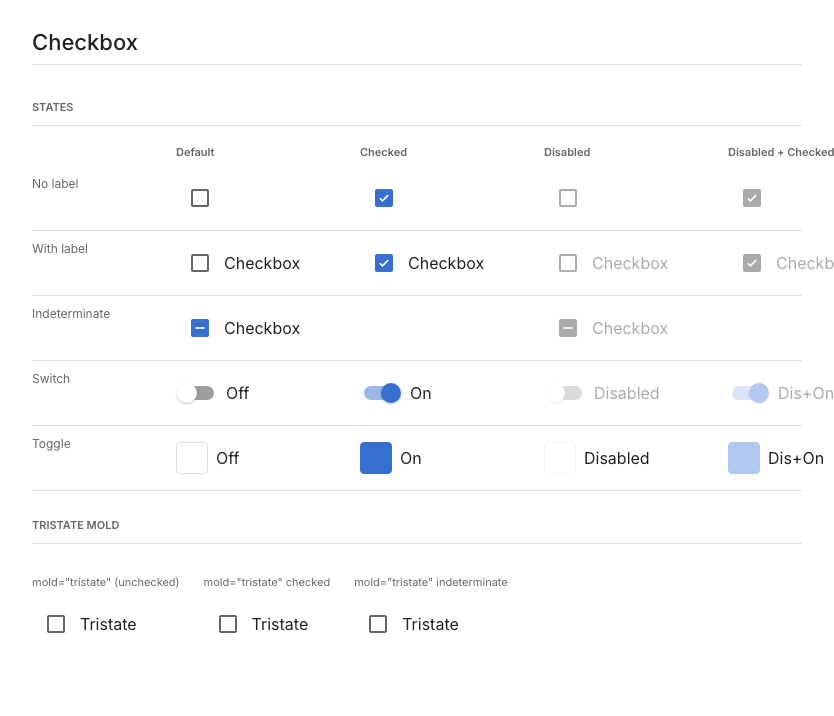
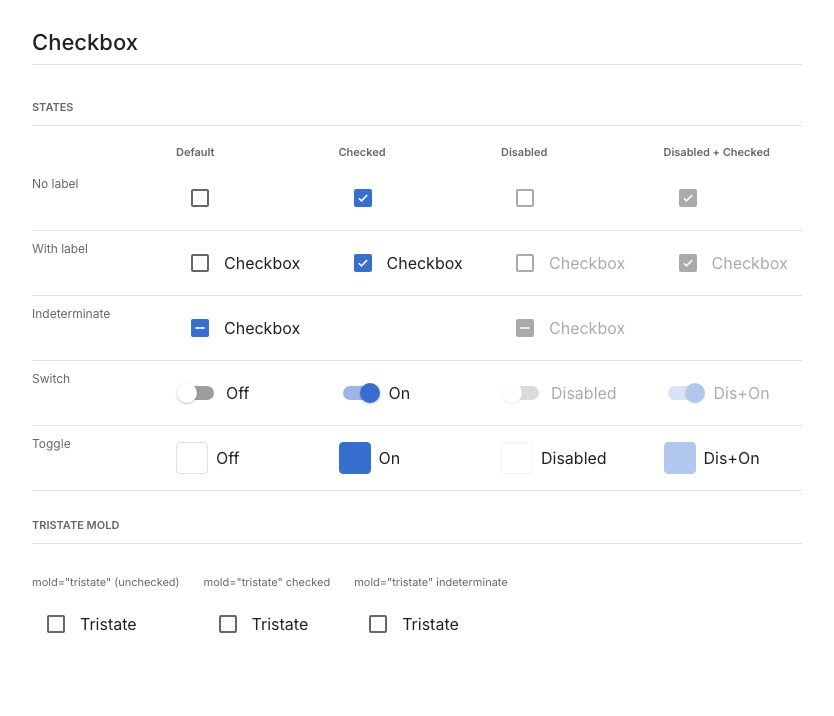
preview: responsive State Matrix on mobile + z-grid-fill utility
Preview pages overflowed horizontally on mobile (fixed-width pv-cols-*
state-matrix grids ~1072px), so mobile browsers scaled the page down and
spawned a phantom vertical scrollbar. Fluid minmax() columns removed the
overflow but squeezed phone cards to ~34px (overlapping the 44px dropdown
button). Below sm (600px) the matrix now reflows into self-labeled cards.

- pv.css: minmax() fluid columns + <600px @media card reflow (hide shared
  header, ::before state labels from CSS vars, auto-fit minmax(150px,1fr))
- pv/matrix.zul: inject column labels as --pv-col-N CSS vars on the wrapper
  (zscript) so the 18 content templates need no changes; var inheritance
  auto-scopes per matrix instance
- _layout.css: add .z-grid-fill auto-fit responsive grid utility for apps /
  independent card grids; deliberately not Bootstrap Grid
- tablet.spec.ts: tablet-no-horizontal-overflow + tablet-matrix-card-usable
  failing-first regression guards
- screenshot.spec.ts: viewport-fill guard injects its own wide spacer instead
  of relying on the (now-responsive) preview pages
- regenerate tablet-combobox / tablet-checkbox visual baselines
- doc/responsive-design.md + CLAUDE.md index row

diff --git a/src/test/resources/web/pv.css b/src/test/resources/web/pv.css
@@ -56,29 +56,41 @@
     align-items: start;
 }
 
+/* Column tracks use minmax(0, …) so the gallery shrinks to fit a narrow
+   (phone/tablet) viewport instead of overflowing horizontally. On a wide
+   desktop the tracks reach their max and render exactly as before; on a narrow
+   viewport they shrink proportionally, keeping document width <= viewport width
+   (a horizontal overflow would otherwise scale the whole mobile page down and
+   spawn a phantom vertical scrollbar). The `min-width: 0` below lets the cell
+   contents (width:100% inputs) follow the shrinking tracks. */
 .pv-cols-1 > .pv-col-header-row,
-.pv-cols-1 > .pv-row { grid-template-columns: 120px 200px; }
+.pv-cols-1 > .pv-row { grid-template-columns: minmax(0, 120px) minmax(0, 200px); }
 
 .pv-cols-2 > .pv-col-header-row,
-.pv-cols-2 > .pv-row { grid-template-columns: 120px repeat(2, 160px); }
+.pv-cols-2 > .pv-row { grid-template-columns: minmax(0, 120px) repeat(2, minmax(0, 160px)); }
 
 .pv-cols-2-wide > .pv-col-header-row,
-.pv-cols-2-wide > .pv-row { grid-template-columns: 150px repeat(2, 220px); }
+.pv-cols-2-wide > .pv-row { grid-template-columns: minmax(0, 150px) repeat(2, minmax(0, 220px)); }
 
 .pv-cols-2-xl > .pv-col-header-row,
-.pv-cols-2-xl > .pv-row { grid-template-columns: 120px repeat(2, 260px); }
+.pv-cols-2-xl > .pv-row { grid-template-columns: minmax(0, 120px) repeat(2, minmax(0, 260px)); }
 
 .pv-cols-3 > .pv-col-header-row,
-.pv-cols-3 > .pv-row { grid-template-columns: 120px repeat(3, 160px); }
+.pv-cols-3 > .pv-row { grid-template-columns: minmax(0, 120px) repeat(3, minmax(0, 160px)); }
 
 .pv-cols-4 > .pv-col-header-row,
-.pv-cols-4 > .pv-row { grid-template-columns: 120px repeat(4, 160px); }
+.pv-cols-4 > .pv-row { grid-template-columns: minmax(0, 120px) repeat(4, minmax(0, 160px)); }
 
 .pv-cols-4-wide > .pv-col-header-row,
-.pv-cols-4-wide > .pv-row { grid-template-columns: 150px repeat(4, 220px); }
+.pv-cols-4-wide > .pv-row { grid-template-columns: minmax(0, 150px) repeat(4, minmax(0, 220px)); }
 
 .pv-cols-5 > .pv-col-header-row,
-.pv-cols-5 > .pv-row { grid-template-columns: 120px repeat(5, 160px); }
+.pv-cols-5 > .pv-row { grid-template-columns: minmax(0, 120px) repeat(5, minmax(0, 160px)); }
+
+/* Allow cells to shrink below their content's intrinsic width so the fluid
+   tracks above can actually contract on narrow viewports. */
+.pv-col-header-row > *,
+.pv-row > * { min-width: 0; }
 
 /* Make inline-flex ZK components (bandbox, combobox, datebox, …) fill their grid cell */
 .pv-row > div > .z-bandbox,
@@ -94,3 +106,48 @@
 .pv-row > div > .z-decimalbox,
 .pv-row > div > .z-searchbox,
 .pv-row > div > .z-selectbox { width: 100%; }
+
+/* -------------------------------------------------------
+   Phone (< sm 600px) — reflow the State Matrix into self-labeled cards.
+   The fluid table above keeps the document within the viewport, but at phone
+   widths the 5/6 columns squeeze each cell to ~34px (narrower than a 44px
+   dropdown button → overlap). A 2D aligned table can't keep its shared header
+   aligned once columns reflow, so the header is hidden and each cell self-labels
+   from the --pv-col-N custom properties matrix.zul sets on .pv-matrix. Cards
+   then auto-fit at a usable >=150px width and wrap.
+   ------------------------------------------------------- */
+@media (max-width: 599px) {
+    .pv-matrix .pv-col-header-row { display: none; }
+
+    .pv-matrix .pv-row {
+        grid-template-columns: repeat(auto-fit, minmax(min(150px, 100%), 1fr));
+        gap: 16px;
+    }
+
+    /* The row's variant label (first cell) becomes a full-width group heading. */
+    .pv-matrix .pv-row > div:first-child {
+        grid-column: 1 / -1;
+        font-weight: 600;
+        color: var(--zk-color-on-surface);
+        margin-bottom: 0;
+    }
+
+    /* Each state cell becomes a self-labeled card: the column (state) name from
+       the matching --pv-col-N custom property is captioned above the widget. */
+    .pv-matrix .pv-row > div:not(:first-child)::before {
+        content: "";
+        display: block;
+        font-size: 11px;
+        font-weight: 600;
+        color: var(--zk-color-outline);
+        text-transform: uppercase;
+        letter-spacing: 0.08em;
+        margin-bottom: 6px;
+    }
+    .pv-matrix .pv-row > div:nth-child(2)::before { content: var(--pv-col-1); }
+    .pv-matrix .pv-row > div:nth-child(3)::before { content: var(--pv-col-2); }
+    .pv-matrix .pv-row > div:nth-child(4)::before { content: var(--pv-col-3); }
+    .pv-matrix .pv-row > div:nth-child(5)::before { content: var(--pv-col-4); }
+    .pv-matrix .pv-row > div:nth-child(6)::before { content: var(--pv-col-5); }
+    .pv-matrix .pv-row > div:nth-child(7)::before { content: var(--pv-col-6); }
+}

diff --git a/src/test/playwright/tablet.spec.ts b/src/test/playwright/tablet.spec.ts
@@ -65,6 +65,65 @@ test.describe('tablet-touch-size', () => {
 });
 
 // -------------------------------------------------------
+// No horizontal overflow — the fixed-width `pv-cols-*` state-gallery grids
+// (matrix.zul) were ~1072px wide, exceeding a phone/tablet viewport. When
+// document content is wider than the viewport the mobile engine widens the
+// layout viewport and scales the whole page down; that same scale makes the
+// layout viewport TALLER than the visible area, producing a phantom *vertical*
+// scrollbar even though no element sticks out. Asserting no horizontal overflow
+// guards the responsive `pv.css` fix (fluid minmax() columns) that keeps the
+// galleries within the viewport width.
+// -------------------------------------------------------
+const overflowPages = [
+  '/combobox.zul',
+  '/datebox.zul',
+  '/timebox.zul',
+  '/spinner.zul',
+  '/textbox.zul',
+];
+
+test.describe('tablet-no-horizontal-overflow', () => {
+  for (const url of overflowPages) {
+    test(`${url} content fits the viewport width`, async ({ page }) => {
+      await page.goto(url);
+      await page.waitForLoadState('networkidle');
+      const { scrollW, clientW } = await page.evaluate(() => {
+        const de = document.scrollingElement || document.documentElement;
+        return { scrollW: de.scrollWidth, clientW: de.clientWidth };
+      });
+      // 1px tolerance for sub-pixel rounding.
+      expect(scrollW, `${url}: document is ${scrollW - clientW}px wider than the viewport`)
+        .toBeLessThanOrEqual(clientW + 1);
+    });
+  }
+});
+
+// -------------------------------------------------------
+// State-matrix cards must stay usable on a phone — not squeezed.
+// The fluid table (minmax columns) keeps the document within the viewport, but
+// at phone widths it shrinks each combobox cell to ~34px — narrower than the
+// 44px dropdown button, so cells overlap and the preview is useless. Below the
+// `sm` breakpoint the matrix must REFLOW into self-labeled cards that stay a
+// usable width. Guards the responsive `pv.css` card layout (matrix.zul exposes
+// the column labels as --pv-col-N custom properties for the ::before captions).
+// -------------------------------------------------------
+test.describe('tablet-matrix-card-usable', () => {
+  test('state cards keep a usable width on a phone', async ({ page }) => {
+    await page.goto('/combobox.zul');
+    await page.waitForLoadState('networkidle');
+    await page.setViewportSize({ width: 390, height: 800 });
+    await page.waitForTimeout(300);
+    const minCardW = await page.evaluate(() => {
+      // every state cell (skip the first-child variant label of each row)
+      const cells = [...document.querySelectorAll('.pv-matrix .pv-row > div:not(:first-child)')];
+      return Math.min(...cells.map(c => Math.round(c.getBoundingClientRect().width)));
+    });
+    // A combobox needs room for the 44px button plus a readable input.
+    expect(minCardW, `narrowest state card is ${minCardW}px`).toBeGreaterThanOrEqual(150);
+  });
+});
+
+// -------------------------------------------------------
 // Visual baselines at tablet size — capture the page wrapper (.z-p-8)
 // -------------------------------------------------------
 type VisualCase = { name: string; url: string };

diff --git a/src/test/playwright/screenshot.spec.ts b/src/test/playwright/screenshot.spec.ts
@@ -362,8 +362,10 @@ test.describe('tablet-isolation', () => {
 // The base reset must use `body { min-height: 100% }`, NOT `100vh`. `100vh` is
 // blind to scrollbars: when any wide content triggers a horizontal scrollbar,
 // a `100vh` body exceeds the now-shorter visible area and spawns a SPURIOUS
-// vertical scrollbar on a page whose content fits. The colorbox preview matrix
-// is fixed-width (~504px min), so a narrow viewport is a reliable trigger.
+// vertical scrollbar on a page whose content fits. We force the horizontal
+// scrollbar with an injected off-document-flow wide spacer (the preview pages
+// are now responsive and no longer overflow), so this guards the reset rule
+// itself rather than any page's layout.
 // See `.claude/skills/zk-component-rules/reference/viewport-height-fill.md`.
 // -------------------------------------------------------
 test.describe('viewport-fill', () => {
@@ -372,6 +374,12 @@ test.describe('viewport-fill', () => {
     await page.goto('/colorbox.zul');
     await page.waitForLoadState('networkidle');
     const m = await page.evaluate(() => {
+      // Force a horizontal scrollbar without adding vertical content height:
+      // an absolutely-positioned 1px-tall spacer wider than the viewport.
+      const spacer = document.createElement('div');
+      spacer.style.cssText = 'position:absolute;top:0;left:0;width:2000px;height:1px;pointer-events:none;';
+      document.body.appendChild(spacer);
+
       const d = document.documentElement;
       const pageEl = document.querySelector('.z-page') as HTMLElement;
       return {

diff --git a/src/main/resources/web/zul/css/utility/_layout.css b/src/main/resources/web/zul/css/utility/_layout.css
@@ -26,6 +26,17 @@
 .z-grid-cols-6 { grid-template-columns: repeat(6, minmax(0, 1fr)); }
 .z-grid-cols-auto-1fr { grid-template-columns: auto 1fr; }
 
+/* Auto-fit fill — responsive by intrinsic sizing, no breakpoints needed.
+   Children flow into as many equal columns as fit, each at least
+   `--zk-grid-min` wide (default 180px), wrapping to new rows when they don't.
+   Set `display: grid` (.z-d-grid) and a gap, then override the minimum
+   per-instance with `style="--zk-grid-min: 220px"` when a wider card is wanted.
+   Prefer this over fixed `.z-grid-cols-N` whenever the cards are independent
+   (no cross-row column alignment required). */
+.z-grid-fill {
+    grid-template-columns: repeat(auto-fit, minmax(min(var(--zk-grid-min, 180px), 100%), 1fr));
+}
+
 /* ============================================
    Flex — direction & wrap
    ============================================ */

diff --git a/doc/responsive-design.md b/doc/responsive-design.md
@@ -1,0 +1,182 @@
+# Responsive Design 解法（Marble）
+
+本文件說明 Marble 目前的響應式版面做法、設計取捨，以及如何使用。
+
+## 0. TL;DR
+
+| 層次 | 是什麼 | 用在哪 | 現況 |
+|------|--------|--------|------|
+| **通用 utility** | `.z-grid-fill`（auto-fit grid，無 breakpoint） | App／預覽頁中**彼此獨立**的卡片牆、儀表板磚、產品列表 | 已定義於 `_layout.css`、編譯進 `norm.css.dsp`；**尚未**用在任何 ZUL（預留給開發者） |
+| **特例 pattern** | State Matrix 手機卡片重排（`@media` + CSS 變數 + `::before`） | 預覽頁的「狀態矩陣」這種**有共用表頭、需上下對齊**的二維表格 | 已套用：`pv.css` ＋ `pv/matrix.zul` |
+
+兩者**不是同一個東西**：`z-grid-fill` 是一行就能用的通用工具；State Matrix 因為有「共用表頭＋欄位對齊」的限制，需要額外機制（見第 3 節）。
+
+---
+
+## 1. 設計原則：為什麼不引入 Bootstrap Grid
+
+我們**刻意不**把 Bootstrap 的 12 欄 × 多 breakpoint × `col-sm-6 col-md-4` class 整套搬進 utility CSS：
+
+1. **與現代 CSS 重複**：Bootstrap Grid 早於 CSS Grid。「卡片自動增減欄、窄螢幕換行、保持最小寬」用原生一行就能達成（見 `z-grid-fill`），不需要 breakpoint class 與 12 欄記帳。
+2. **與 MD3/MUI 方向衝突**：本 theme 對齊 MD3/MUI。MUI 的 Grid 是 React 元件 props（`<Grid size={{xs:12, md:4}}>`），不是 class soup；`col-md-4` 會把 MD3 不採用的 12 欄思維帶回來，也和既有 `z-*` utility 風格不一致。
+3. **範圍與維護**：整套 grid ≈ 數百行 CSS，等於自己養一個 mini-Bootstrap。
+
+**取向**：優先用「intrinsic / auto-fit」式響應（讓內容依可用寬度自我排列），只有在真的需要「依裝置尺寸切換版面」時才用 `@media`。
+
+---
+
+## 2. `z-grid-fill` —— 通用響應式格線
+
+### 定義（`src/main/resources/web/zul/css/utility/_layout.css`）
+
+```css
+.z-grid-fill {
+    grid-template-columns: repeat(auto-fit, minmax(min(var(--zk-grid-min, 180px), 100%), 1fr));
+}
+```
+
+- `auto-fit`：能塞幾欄就塞幾欄，塞不下自動換行。
+- `minmax(..., 1fr)`：每欄最少 `--zk-grid-min`（預設 **180px**），有多餘空間就平均撐滿。
+- `min(var(--zk-grid-min,180px), 100%)`：當容器比一張卡片還窄時，卡片縮到容器寬（**永不橫向溢出**）。
+- **無 `@media`**：欄數隨容器寬度自動變化 —— 寬螢幕多欄、手機一欄。
+
+### 用法
+
+`z-grid-fill` 只設定 `grid-template-columns`，所以要搭配 `z-d-grid`（`display:grid`）和一個間距（`z-gap-*`）：
+
+```xml
+<!-- 基本：卡片牆，每張至少 180px，自動換行 -->
+<div sclass="z-d-grid z-grid-fill z-gap-4">
+    <div sclass="z-card">卡片 1</div>
+    <div sclass="z-card">卡片 2</div>
+    <div sclass="z-card">卡片 3</div>
+    <div sclass="z-card">卡片 4</div>
+</div>
+```
+
+行為：1200px 寬 → 6 欄；600px → 3 欄；390px 手機 → 2 欄；極窄 → 1 欄。全程不需要寫任何 breakpoint。
+
+```xml
+<!-- 自訂最小卡片寬：每張至少 240px（較寬的卡片） -->
+<div sclass="z-d-grid z-grid-fill z-gap-6" style="--zk-grid-min: 240px">
+    <div sclass="z-card">寬卡片 A</div>
+    <div sclass="z-card">寬卡片 B</div>
+</div>
+```
+
+```xml
+<!-- 儀表板磚：搭配既有 spacing / elevation utility -->
+<div sclass="z-d-grid z-grid-fill z-gap-4 z-p-4">
+    <div sclass="z-card z-elevation-1 z-p-4">營收</div>
+    <div sclass="z-card z-elevation-1 z-p-4">訂單</div>
+    <div sclass="z-card z-elevation-1 z-p-4">使用者</div>
+</div>
+```
+
+### `z-grid-fill` vs `z-grid-cols-N`（既有固定欄）
+
+| | `z-grid-cols-N` | `z-grid-fill` |
+|--|-----------------|---------------|
+| 欄數 | **固定 N 欄**（內容收縮） | **隨寬度自動增減** |
+| 換行 | 不換行 | 塞不下自動換行 |
+| 適合 | 表單欄位對齊、需要固定欄數的版面 | 卡片牆、磚牆、清單，卡片彼此獨立 |
+| 手機 | N 欄可能被擠很窄 | 自動降到 1~2 欄，保持可用 |
+
+> 規則：**卡片彼此獨立（不需跨列對齊）→ 用 `z-grid-fill`；需要固定欄數對齊 → 用 `z-grid-cols-N`。**
+
+---
+
+## 3. State Matrix 手機卡片重排（特例）
+
+### 為什麼不能直接用 `z-grid-fill`
+
+預覽頁的「狀態矩陣」是**對齊的二維表格**：上方一條共用表頭（Default / Disabled / Readonly / Invalid / Inplace）＋多列資料列，欄位必須上下對齊。
+
+- 一旦在窄螢幕減少欄數，**表頭列與資料列會各自獨立重排 → 對齊崩潰**。
+- 而且每個 cell 只有 widget、**沒有自己的狀態標籤**（標籤集中在共用表頭）。
+
+所以手機上正確做法是：**放棄共用表頭，讓每個 cell 變成「自帶標籤的卡片」**。這需要兩個配合：
+
+### 機制（兩個檔案）
+
+**(a) `src/test/resources/web/pv/matrix.zul`** —— 把欄標籤變成 CSS 變數，掛在 wrapper 上：
+
+```xml
+<zscript><![CDATA[
+    java.util.List _cols = (java.util.List) arg.get("cols");
+    StringBuilder _sb = new StringBuilder();
+    for (int _i = 0; _i < _cols.size(); _i++)
+        _sb.append("--pv-col-").append(_i + 1).append(":'").append(_cols.get(_i)).append("';");
+    String pvColVars = _sb.toString();
+]]></zscript>
+<div sclass="pv-matrix ... pv-cols-${arg.cols.size()}${arg.colsSuffix}" style="${pvColVars}">
+    ...
+</div>
+```
+
+產出例如：`style="--pv-col-1:'Default';--pv-col-2:'Disabled';...--pv-col-5:'Inplace';"`。
+**關鍵**：CSS 變數會沿 `.pv-matrix` wrapper **繼承**給底下所有 cell，所以一頁有多個 matrix 也各自獨立、自動 scope，**完全不必改動 18 個內容模板**。
+
+**(b) `src/test/resources/web/pv.css`** —— `@media (max-width:599px)` 重排：
+
+```css
+@media (max-width: 599px) {
+    .pv-matrix .pv-col-header-row { display: none; }          /* 隱藏共用表頭 */
+
+    .pv-matrix .pv-row {                                       /* 改成 auto-fit 卡片 */
+        grid-template-columns: repeat(auto-fit, minmax(min(150px, 100%), 1fr));
+        gap: 16px;
+    }
+    .pv-matrix .pv-row > div:first-child {                     /* 變體標籤 → 整列小標題 */
+        grid-column: 1 / -1; font-weight: 600;
+    }
+    .pv-matrix .pv-row > div:not(:first-child)::before {       /* 每張卡片加標籤 */
+        content: ""; display: block; font-size: 11px; ...
+    }
+    .pv-matrix .pv-row > div:nth-child(2)::before { content: var(--pv-col-1); }
+    .pv-matrix .pv-row > div:nth-child(3)::before { content: var(--pv-col-2); }
+    /* ... 對應到第 N 欄 ... */
+}
+```
+
+### 結果
+
+- **桌機 / 平板（≥600px）**：維持原本的對齊表格（欄寬 `minmax(0,160px)` 上限＝原本的 px，外觀不變）。
+- **手機（<600px）**：每列變體成組，狀態卡片 auto-fit 換行（每張 ≥150px），各自有 DEFAULT / DISABLED / READONLY... 標籤，下拉鈕完整、不重疊。
+
+---
+
+## 4. 該用哪個？（決策）
+
+```
+要排版的是「彼此獨立的卡片」嗎？
+├─ 是 → z-grid-fill（一行搞定，無 breakpoint）
+└─ 否，是「有共用表頭、需欄位對齊的二維表格」
+        └─ 參考 State Matrix pattern：@media 重排 + CSS 變數自帶標籤
+```
+
+需要「永遠固定 N 欄」(例如表單兩欄對齊) → `z-grid-cols-N`。
+
+---
+
+## 5. Breakpoint 說明
+
+- `z-grid-fill` **不用** breakpoint（intrinsic）。
+- State Matrix 重排用 **sm = 600px**（對齊 MUI 的 sm；< sm 視為手機 → 堆疊）。
+- 目前 utility CSS 僅在此 pattern 用到 `@media`；若未來要做「依裝置切換版面」的 App 級需求，再評估是否補一組對齊 MUI 的響應式 utility（sm 600 / md 900 / lg 1200 / xl 1536）。
+
+## 6. 測試守則
+
+響應式版面的回歸測試放在 `src/test/playwright/tablet.spec.ts`（mobile UA 專案）：
+
+- `tablet-no-horizontal-overflow`：頁面在平板寬度下 `scrollWidth <= clientWidth`（防止橫向溢出→幻影垂直捲軸）。
+- `tablet-matrix-card-usable`：在 390px 量最窄狀態卡片寬 ≥150px（防止「擠壓而非重排」）。
+
+新增任何響應式版面時，沿用「失敗先行」：先寫一條會 fail 的幾何斷言，再寫 CSS 讓它 pass。
+
+## 7. 注意事項 / 限制
+
+- `z-grid-fill` 必須搭配 `z-d-grid`＋`z-gap-*` 才有效（它只設 `grid-template-columns`）。
+- State Matrix 的 `::before` 標籤目前對應到 `nth-child(2)~(7)`（最多 6 欄）；若未來矩陣超過 6 欄，需在 `pv.css` 補對應規則。
+- `matrix.zul` 的 `--pv-col-N` 注入用 zscript（已驗證 `arg` 在 zscript 可用）；屬預覽頁 test resource，正式 App 不需要此機制。
+- 相關背景與量測證據：`tasks/mobile-vertical-scrollbar-diagnosis.md`、`tasks/responsive-state-matrix-plan.md`。

diff --git a/CLAUDE.md b/CLAUDE.md
@@ -139,6 +139,7 @@ Located in `doc/` directory:
 | [window-design-rules.md](doc/window-design-rules.md) | Window mode↔elevation mapping; `border` must not drive shadow |
 | [md3-close-affordance-placement.md](doc/md3-close-affordance-placement.md) | MD3 close/dismiss icon placement (inline trailing vs surface top-corner; full-screen-dialog exception) |
 | [verification-harness-decisions.md](doc/verification-harness-decisions.md) | Decision records: outcome-driven contracts (DR-1), dual-gate VERIFIED (DR-2) |
+| [responsive-design.md](doc/responsive-design.md) | Responsive layout: `z-grid-fill` auto-fit utility + State Matrix mobile card-reflow; why not Bootstrap Grid |
 | [mira/](doc/mira/) | 49 Mira HTML reference pages + MUI stylesheet (index-BnB_Ifri.css) |
 
 ### External CSS Reference
